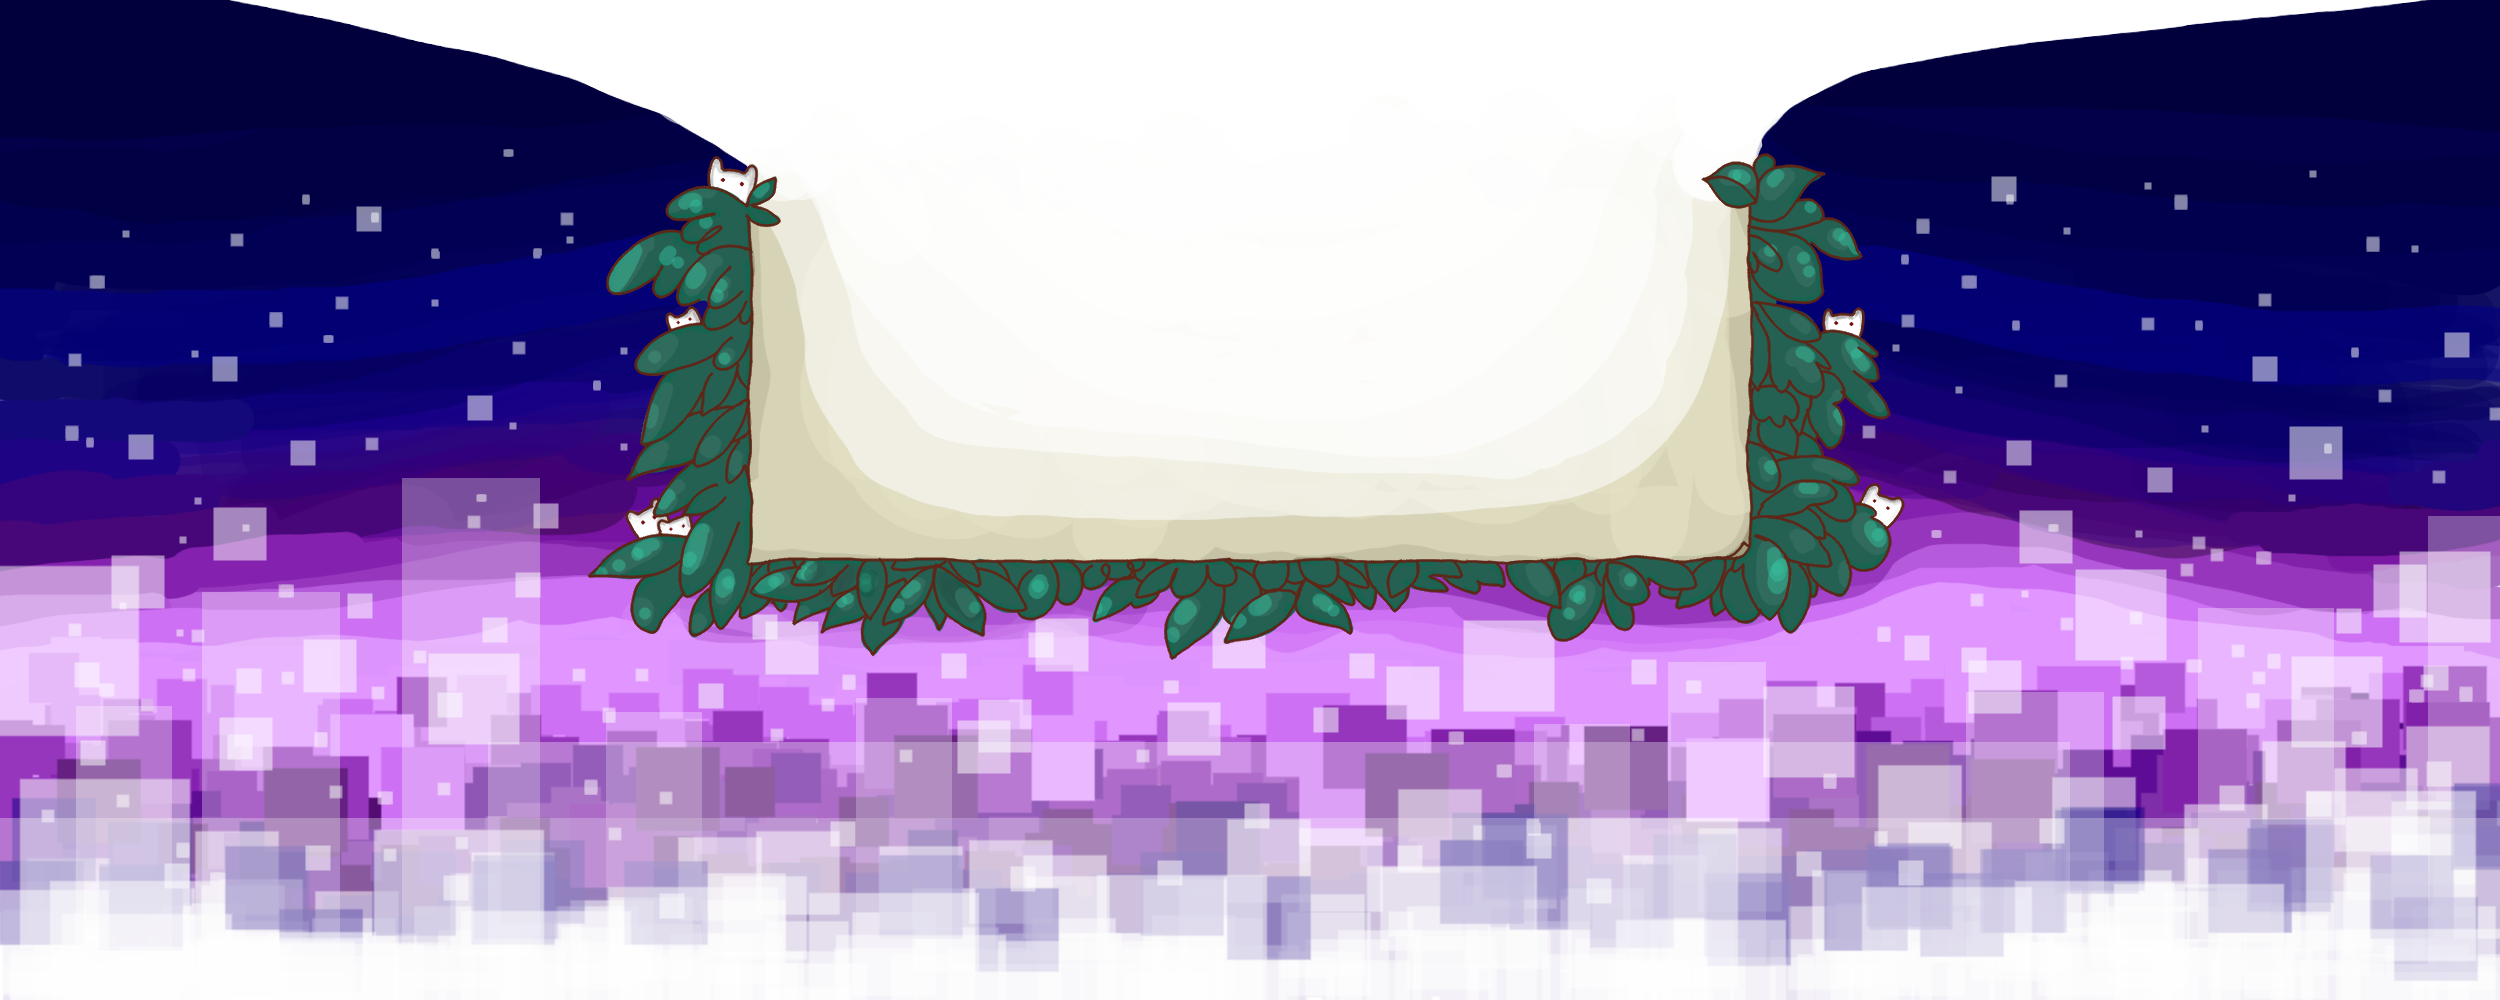
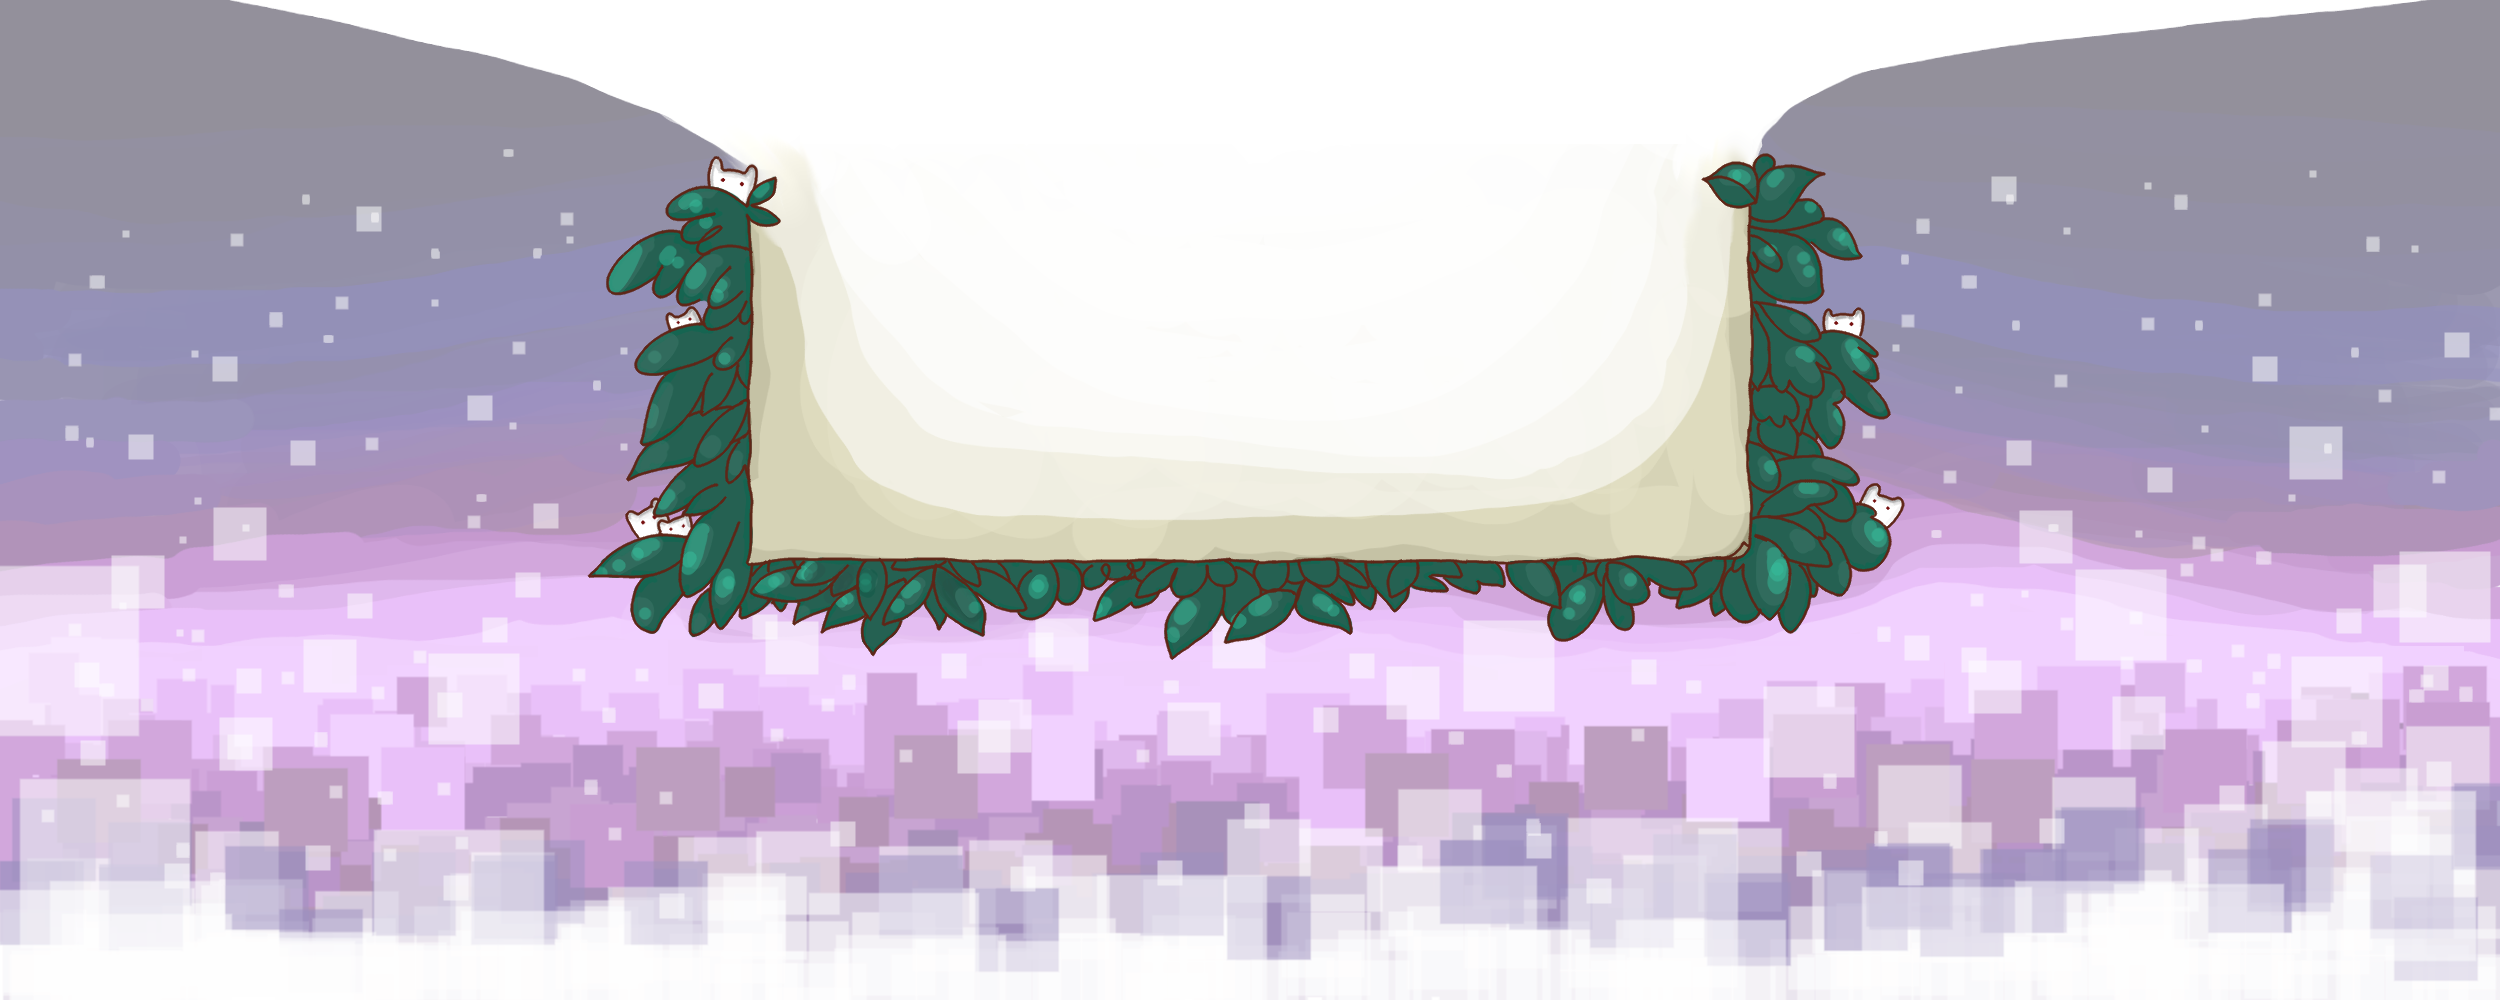
Format angepasst. Hintergrundbild leicht verändert.

diff --git a/galerie.css b/galerie.css
@@ -25,42 +25,47 @@ h1
 text-align:center;
 color:#41261f;
 font-family: Allura;
-font-size: 90px; font-size: 7vw;
+font-size: 75px; font-size: 5vw;
 position: relative;
 margin-top:150px; margin-top: 8vw;
+margin-bottom:50px;
+/*border: 25px solid navy;*/
+max-width: 720px;
+position: absolute;
+left: 30%;
+right: 30%;
 }
 
-h2 
+menu
 {
 text-align:center;
-color:black;
 font-family: Bonveno;
-font-size: 35px; /*font-size: 5vw;*/
-margin-top:250px; margin-top: 15vw;
+font-size: 1.5em;
+background-color:#f1efe3;
+position:fixed;
+margin:0;
+top: 0;
+left:-3%;
+width: 103%;
+height: 1.6em;
 }
 
-ul
-{
-list-style-type:none;
-margin:20px;
-padding:0;
-}
+
 
 p 
 {
 font-family:Molengo;
 font-size: 14px;
 text-align: left;
-margin-top:5%;
+margin-top:1000px;
 margin-left:34%;
 margin-right:34%;
 }
 
 body 
 {
-font-size: 100%;
 background-image:url("bilder/website-banner_leaves.png");
-background-size: 100%;
+background-size:100%;
 background-repeat: no-repeat;
 }
 
@@ -71,7 +76,7 @@ a:visited {color:#cc5555;}  /* visited link */
 div.imgx
   {
 margin:2vw;10px;
-border-color:#555555;
+/*border-color:#FF0000;*/
 /*border-width:2px;*/
 /*border-style:solid;*/
 height:auto;
@@ -81,8 +86,11 @@ float:left;
   }
 div.gallerygroup
   {
-margin:2vw;10px;
-border-color:#554433;
+margin-top:40vw;
+margin-left:5em;
+margin-right:5em;
+margin-bottom:5em;
+border-color:#993355;
 border-width:2px;
 border-style:solid;
 height:auto;

diff --git a/galerie1.html b/galerie1.html
@@ -8,10 +8,10 @@
 </head>
 
 <body>
-<h1>Traditional and<br> Digital Paintings</h1><br>
-<h2>
-<a href="./index.html">home</a> | <a href="./alle-galerien.html">Galerien</a> | Videos | Kontakt
-</h2>
+<h1>Traditional and Digital Paintings</h1><br>
+<menu>
+<a href="./index.html">home</a> | <a href="./alle-galerien.html">Galerien</a> | <a href="./kontakt.html">Kontakt</a>
+</menu>
 <div class="gallerygroup g1">
 
 <div class="imgx">

diff --git a/index.html b/index.html
@@ -9,9 +9,10 @@ Lilian Hung
 </h1>
 <br>
 
-<h2>
-<a href="./alle-galerien.html"><br>Galerien</a> | Videos | Kontakt
-</h2>
+<menu>
+<a href="./alle-galerien.html">Galerien</a> | <a href="./kontakt.html">Kontakt</a>
+</menu>
+
 
 <p>
 textextext

diff --git a/alle-galerien.html b/alle-galerien.html
@@ -9,9 +9,10 @@ Galerien
 </h1>
 <br>
 
-<h2>
-<a href="./index.html">Home</a> | Videos | Kontakt
-</h2>
+<menu>
+<a href="./index.html">Home</a> | <a href="./kontakt.html">Kontakt</a>
+</menu>
+
 
 <p>
 blah blah
